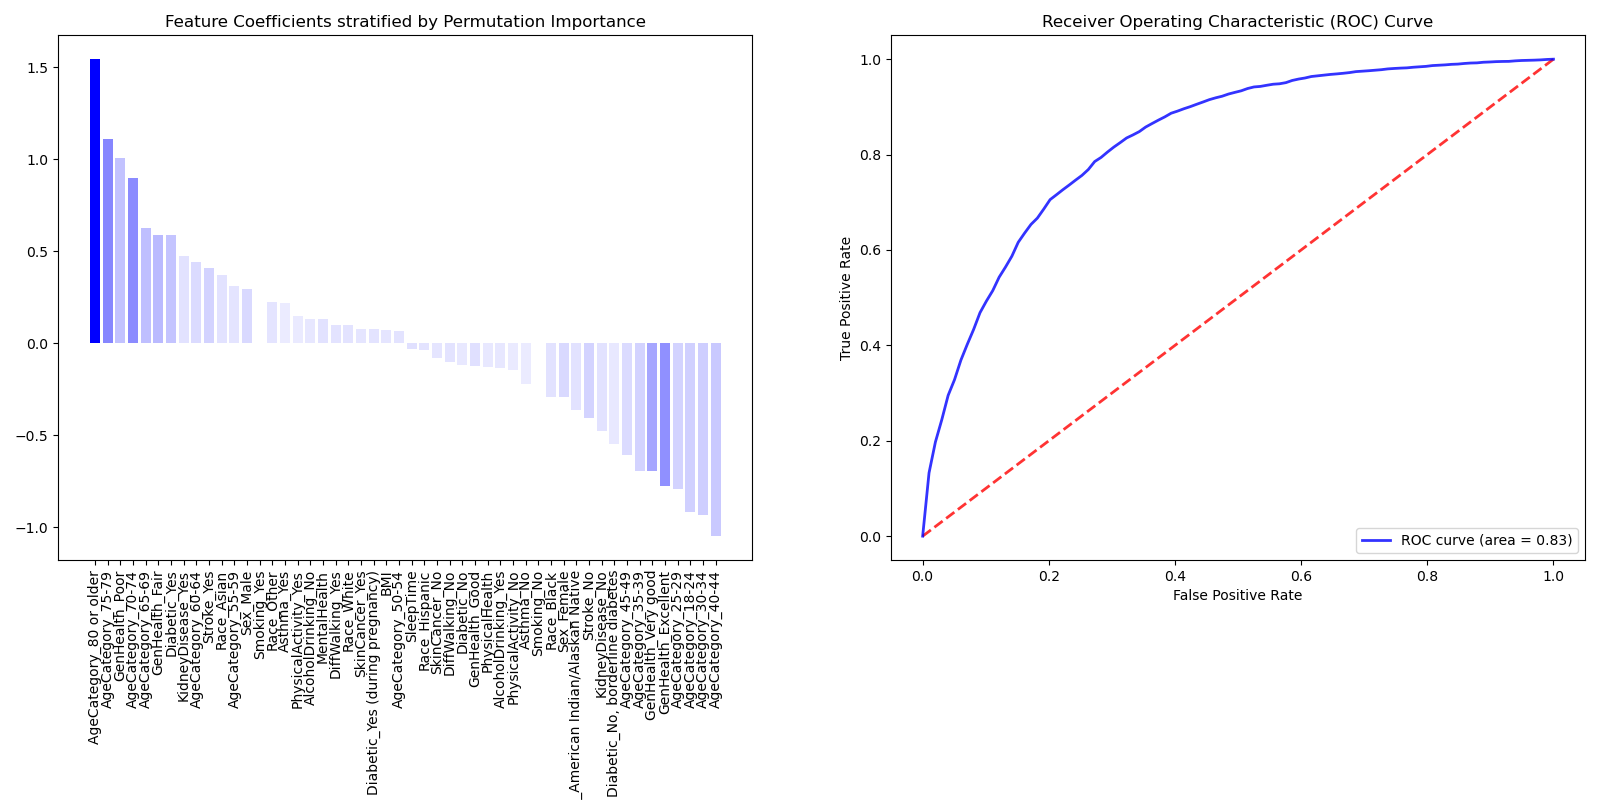
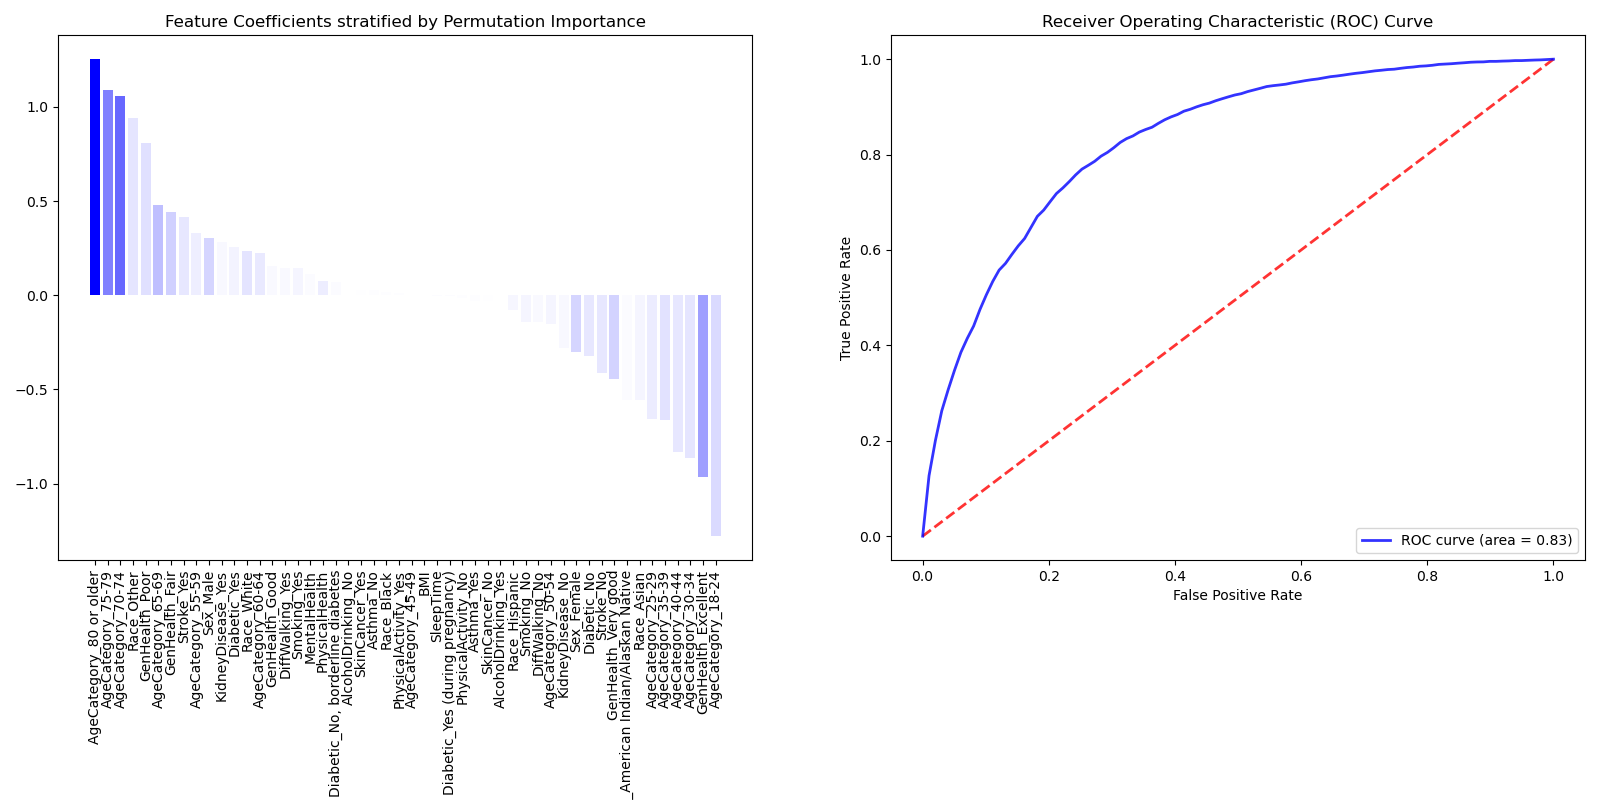
All models: stratified train/test splits with y SVM: Numerical output of confusion matrix and classification report

diff --git a/SVM_Leonard/code/svm.py b/SVM_Leonard/code/svm.py
@@ -22,9 +22,13 @@ def performance_evaluation(y_eval, X_eval, cla, name='Name'):
     tprs.append(np.interp(mean_fpr, fpr, tpr))
     tprs[-1][0] = 0.0
     aucs.append(roc_auc)
-    print(classification_report(y_eval, y_pred))
+    class_report = classification_report(y_eval, y_pred, output_dict=True)
+    report_df = pd.DataFrame(class_report).transpose()
+    report_df.to_csv('../tables/Classification Report.csv', index=True)
+    print(class_report)
     cm = confusion_matrix(y_eval, y_pred)
-    cm.to_csv('../.tables/confusion_matrix.csv')
+    conf_matrix = pd.DataFrame(cm)
+    conf_matrix.to_csv('../tables/confusion_matrix.csv')
     plt.figure(figsize=(8, 6))
     sns.heatmap(cm, annot=True, fmt="d", cmap='Blues')
     plt.title('Confusion Matrix')
@@ -97,7 +101,7 @@ mean_fpr = np.linspace(0, 1, 100)
 
 data_performance = pd.DataFrame(columns=['tp', 'fp', 'tn', 'fn', 'accuracy', 'precision', 'recall', 'f1', 'roc_auc'])
 
-X_train, X_test, y_train, y_test = train_test_split(X, y, test_size=0.2, random_state=42)
+X_train, X_test, y_train, y_test = train_test_split(X, y, test_size=0.2, random_state=42, stratify=y)
 
 pos_patients = list(np.random.choice(X_train[y_train == 1].index, 1000))
 neg_patients = list(np.random.choice(X_train[y_train == 0].index, 1000))

diff --git a/RF_Ilario/code/14-project.py b/RF_Ilario/code/14-project.py
@@ -21,7 +21,7 @@ X = data_encoded.drop('HeartDisease_Yes', axis=1)
 y = data_encoded['HeartDisease_Yes']
 
 # Splitting the dataset into training and testing sets and creating balanced subsets of the data
-X_train, X_test, y_train, y_test = train_test_split(X, y, test_size=0.2, random_state=42)
+X_train, X_test, y_train, y_test = train_test_split(X, y, test_size=0.2, random_state=42, stratify=y)
 
 positive_patients = list(np.random.choice(X_train[y_train == 1].index, 1000))
 negative_patients = list(np.random.choice(X_train[y_train == 0].index, 1000))

diff --git a/KNN_Matilde/code/KNN.py b/KNN_Matilde/code/KNN.py
@@ -28,7 +28,7 @@ data['HeartDisease'] = data['HeartDisease'].apply(lambda x: 1 if x == 'Yes' else
 # Splitting the dataset
 X = data.drop('HeartDisease', axis=1)
 y = data['HeartDisease']
-X_train, X_test, y_train, y_test = train_test_split(X, y, test_size=0.2, random_state=42)
+X_train, X_test, y_train, y_test = train_test_split(X, y, test_size=0.2, random_state=42, stratify=y)
 
 # Create a preprocessing pipeline
 preprocessor = ColumnTransformer(

diff --git a/LR Silvano/code/code_1.py b/LR Silvano/code/code_1.py
@@ -25,7 +25,7 @@ X = data_encoded.drop('HeartDisease_Yes', axis=1)
 y = data_encoded['HeartDisease_Yes']
 
 
-X_train, X_test, y_train, y_test = train_test_split(X, y, test_size=0.2, random_state=42)
+X_train, X_test, y_train, y_test = train_test_split(X, y, test_size=0.2, random_state=42,stratify=y)
 
 pos_patients = list(np.random.choice(X_train[y_train == 1].index, 1000))
 neg_patients = list(np.random.choice(X_train[y_train == 0].index, 1000))
